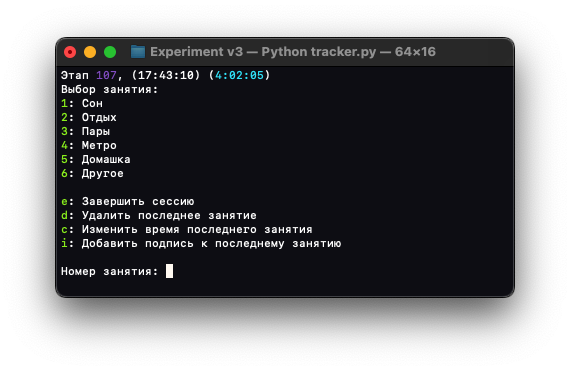
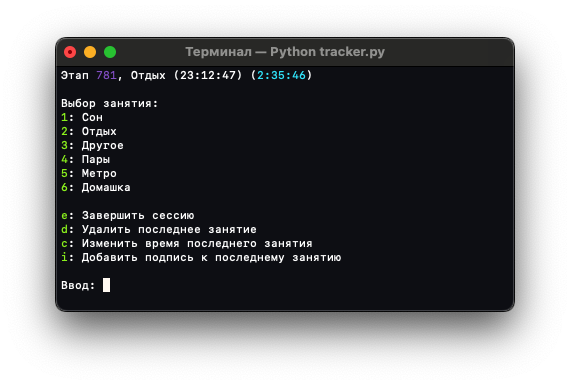
more information for tracker header line

Changed region(s): [[0.0895, 0.0889, 0.8947, 0.504], [0.0895, 0.5337, 0.5965, 0.6819], [0.0895, 0.7116, 0.9246, 0.8302]]

diff --git a/tracker.py b/tracker.py
@@ -104,9 +104,15 @@ while True:
     system("cls" if platform() == "Windows" else "clear")
 
     # Header
-    activity = len(activities) + 1
-    stageline = f"Этап {magenta}{activity}{white}, ({datetime.fromtimestamp(timestamp).strftime('%H:%M:%S')}) "
-    if len(activities): stageline += f"({cyan}{timedelta(0, round(timestamp - activities[-1][1]))}{white})"
+    activity = len(activities)
+    stageline = "Последния сессия будет отображаться тут\n"
+    
+    if len(activities): 
+        stageline = (
+            f"Этап {magenta}{activity}{white}, {activities[-1][0]} "
+            f"({datetime.fromtimestamp(timestamp).strftime('%H:%M:%S')}) "
+            f"({cyan}{timedelta(0, round(timestamp - activities[-1][1]))}{white})\n"
+        )
 
     print(stageline)
 
@@ -126,7 +132,7 @@ while True:
         print(f"{green}{'edci'[i]}{white}: {name}")
     
     # Gain input
-    session_id = input("\nНомер занятия: ")
+    session_id = input("\nВвод: ")
     if session_id.isdigit(): session_id = int(session_id)
     elif session_id in ('e', 'd', 'c', 'i'): session_id = len(ACTIVITIES) + "edci".index(session_id) + 1
     else: session_id = 0
